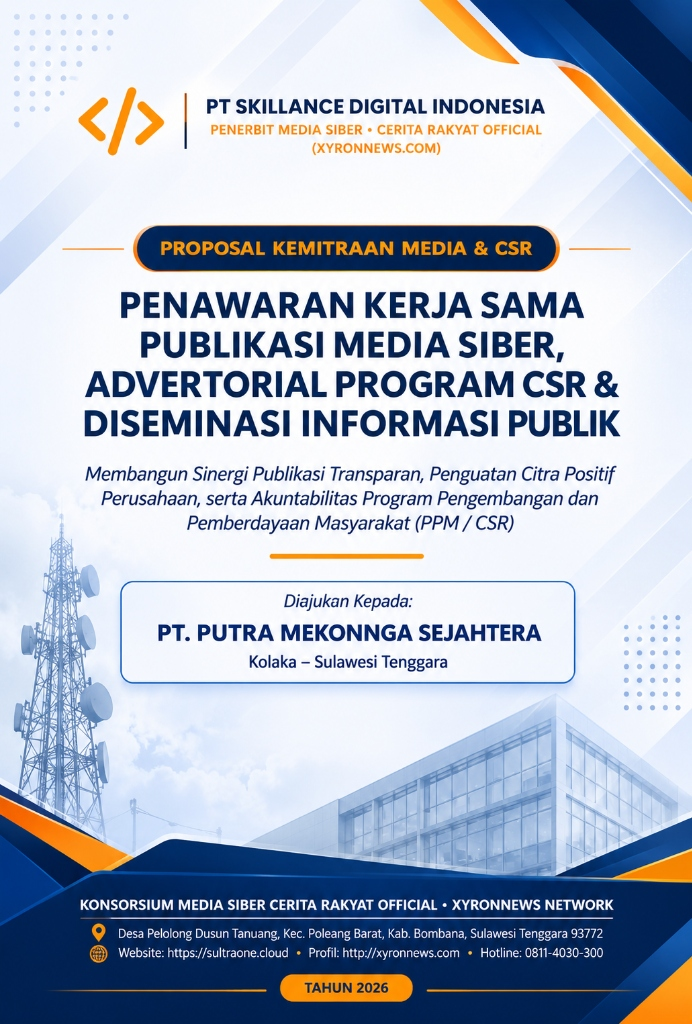
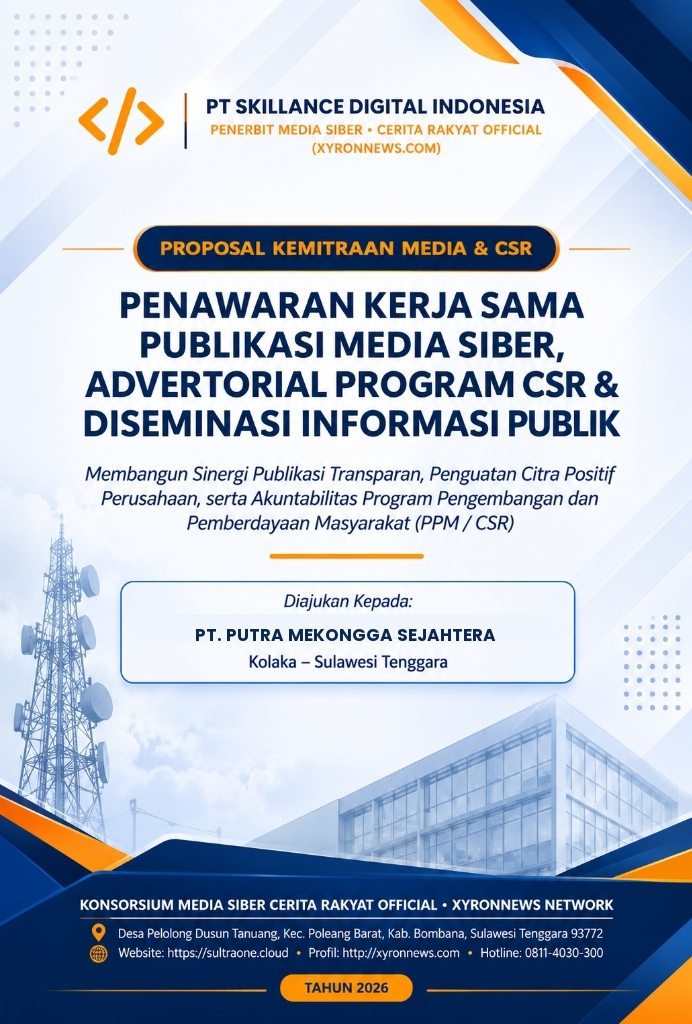
fix(typo): correct spelling of Mekongga across documents and cover image

Changed region(s): [[0.2124, 0.5938, 0.789, 0.625]]

diff --git a/Proposal_Kemitraan_Media_PT_Putra_Mekongga_Sejahtera.html b/Proposal_Kemitraan_Media_PT_Putra_Mekongga_Sejahtera.html
@@ -624,7 +624,7 @@
       <h2 class="section-heading" contenteditable="true">BAB I: PENDAHULUAN & LATAR BELAKANG</h2>
       
       <p>
-        Perkembangan industri dan pemanfaatan sumber daya alam di jazirah Sulawesi Tenggara, khususnya di wilayah Mekongga Raya (Kabupaten Kolaka dan sekitarnya), menempatkan <strong>PT. PUTRA MEKONNGA SEJAHTERA</strong> sebagai salah satu entitas korporasi strategis yang berkontribusi nyata terhadap pergerakan ekonomi daerah, penciptaan lapangan kerja, serta pendapatan daerah.
+        Perkembangan industri dan pemanfaatan sumber daya alam di jazirah Sulawesi Tenggara, khususnya di wilayah Mekongga Raya (Kabupaten Kolaka dan sekitarnya), menempatkan <strong>PT. PUTRA MEKONGGA SEJAHTERA</strong> sebagai salah satu entitas korporasi strategis yang berkontribusi nyata terhadap pergerakan ekonomi daerah, penciptaan lapangan kerja, serta pendapatan daerah.
       </p>
 
       <p>
@@ -687,7 +687,7 @@
       <h2 class="section-heading" contenteditable="true">BAB III: RUANG LINGKUP & BENTUK LAYANAN KEMITRAAN</h2>
       
       <p>
-        Melalui kemitraan strategis ini, <strong>Cerita Rakyat Official</strong> menyediakan serangkaian kanal layanan publikasi terpadu yang dirancang untuk mendukung kelancaran operasional dan akuntabilitas sosial <strong>PT. PUTRA MEKONNGA SEJAHTERA</strong>:
+        Melalui kemitraan strategis ini, <strong>Cerita Rakyat Official</strong> menyediakan serangkaian kanal layanan publikasi terpadu yang dirancang untuk mendukung kelancaran operasional dan akuntabilitas sosial <strong>PT. PUTRA MEKONGGA SEJAHTERA</strong>:
       </p>
 
       <h3 class="sub-heading" contenteditable="true">1. Publikasi Siaran Pers & Agenda Resmi Perusahaan</h3>
@@ -847,7 +847,7 @@
       <h2 class="section-heading" contenteditable="true">BAB V: PENUTUP & LEMBAR PENGESAHAN</h2>
       
       <p>
-        Demikian proposal penawaran kemitraan strategis ini kami sampaikan dengan harapan dapat terbangun kerja sama yang sinergis, konstruktif, dan berkelanjutan bersama <strong>PT. PUTRA MEKONNGA SEJAHTERA</strong>. Kami percaya bahwa sinergi antara korporasi yang kredibel dan media pers yang profesional akan menjadi pilar utama dalam mewujudkan pembangunan daerah yang berkeadilan, transparan, dan sejahtera.
+        Demikian proposal penawaran kemitraan strategis ini kami sampaikan dengan harapan dapat terbangun kerja sama yang sinergis, konstruktif, dan berkelanjutan bersama <strong>PT. PUTRA MEKONGGA SEJAHTERA</strong>. Kami percaya bahwa sinergi antara korporasi yang kredibel dan media pers yang profesional akan menjadi pilar utama dalam mewujudkan pembangunan daerah yang berkeadilan, transparan, dan sejahtera.
       </p>
 
       <p>
@@ -881,7 +881,7 @@
           <i class="fa-solid fa-file-signature me-1"></i> LEMBAR KONFIRMASI PERSETUJUAN KEMITRAAN (LETTER OF INTENT)
         </div>
         <p class="no-indent" style="font-size: 8.8pt; margin-bottom: 6px;">
-          Menyatakan bahwa <strong>PT. PUTRA MEKONNGA SEJAHTERA</strong> menyambut baik dan menyetujui kemitraan publikasi media bersama <strong>Cerita Rakyat Official (PT Skillance Digital Indonesia)</strong> dengan ketentuan:
+          Menyatakan bahwa <strong>PT. PUTRA MEKONGGA SEJAHTERA</strong> menyambut baik dan menyetujui kemitraan publikasi media bersama <strong>Cerita Rakyat Official (PT Skillance Digital Indonesia)</strong> dengan ketentuan:
         </p>
         <table style="width: 100%; font-size: 8.5pt; border-collapse: collapse; margin-bottom: 6px;">
           <tr>
@@ -911,7 +911,7 @@
           </div>
           <div style="text-align: center; width: 200px;">
             <p style="margin: 0; font-size: 8.5pt;">Kolaka, .................................... 2026</p>
-            <p style="margin: 0; font-size: 8.5pt; font-weight: bold;">PT PUTRA MEKONNGA SEJAHTERA</p>
+            <p style="margin: 0; font-size: 8.5pt; font-weight: bold;">PT PUTRA MEKONGGA SEJAHTERA</p>
             <div style="height: 38px;"></div>
             <p style="margin: 0; font-size: 8.5pt; text-decoration: underline;">( .................................................... )</p>
             <p style="margin: 0; font-size: 7.5pt; color: #64748b;">Tanda Tangan & Cap Perusahaan</p>

diff --git a/Amplop_Surat_PT_Putra_Mekongga_Sejahtera.html b/Amplop_Surat_PT_Putra_Mekongga_Sejahtera.html
@@ -382,7 +382,7 @@
       <div class="recipient-box">
         <div class="to-prefix" contenteditable="true">Kepada Yang Terhormat:</div>
         <div class="to-target-name" contenteditable="true">Pimpinan</div>
-        <div class="to-target-sub" contenteditable="true"><strong>PT PUTRA MEKONNGA SEJAHTERA</strong></div>
+        <div class="to-target-sub" contenteditable="true"><strong>PT PUTRA MEKONGGA SEJAHTERA</strong></div>
         <div class="to-location" contenteditable="true">di &ndash;</div>
         <div class="to-city" contenteditable="true">&nbsp;&nbsp;&nbsp;&nbsp;<strong>TEMPAT</strong></div>
       </div>

diff --git a/Surat_Pengantar_Media_PT_Putra_Mekongga_Sejahtera.html b/Surat_Pengantar_Media_PT_Putra_Mekongga_Sejahtera.html
@@ -515,7 +515,7 @@
       <table class="receipt-table">
         <tr>
           <td class="header-col">Perusahaan Penerima</td>
-          <td contenteditable="true"><strong>PT. PUTRA MEKONNGA SEJAHTERA</strong></td>
+          <td contenteditable="true"><strong>PT. PUTRA MEKONGGA SEJAHTERA</strong></td>
           <td class="header-col">No. Agenda Masuk</td>
           <td contenteditable="true">................................................</td>
         </tr>
